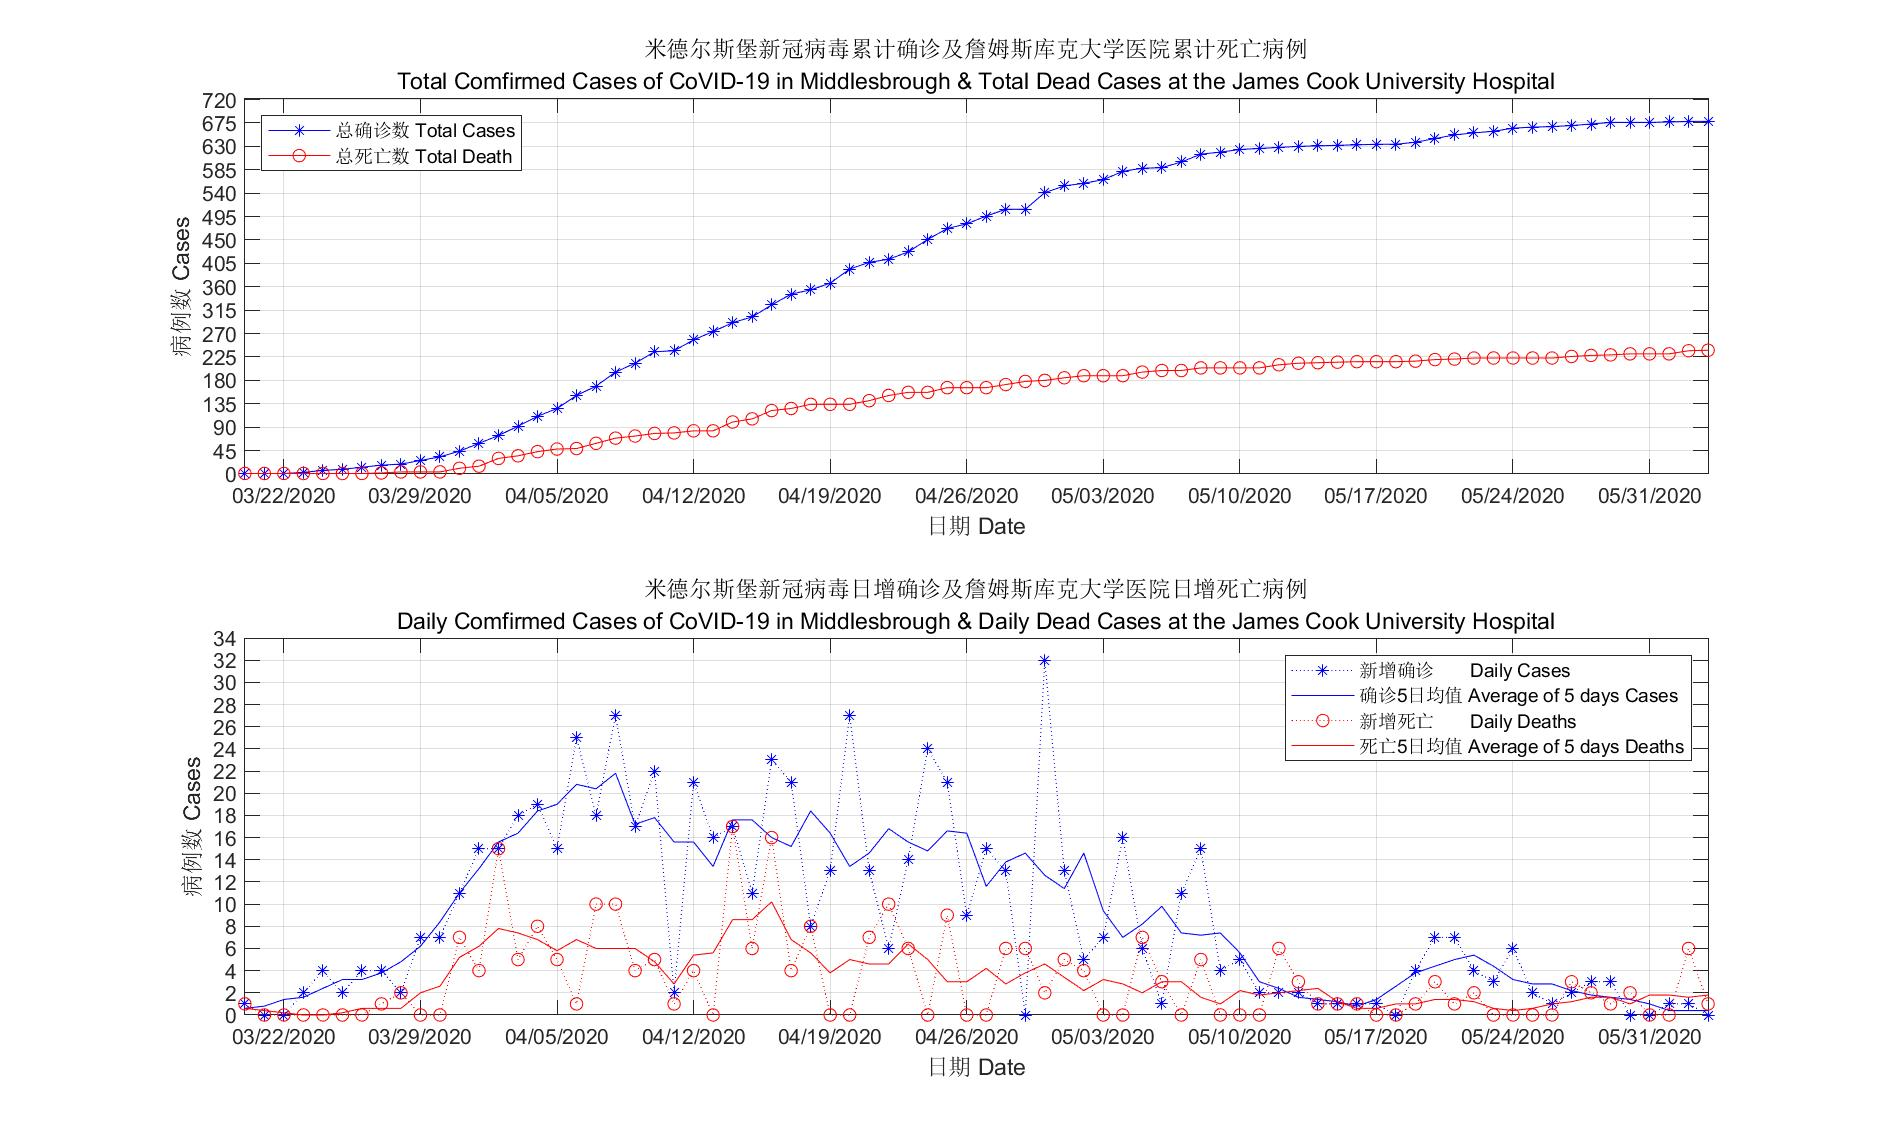
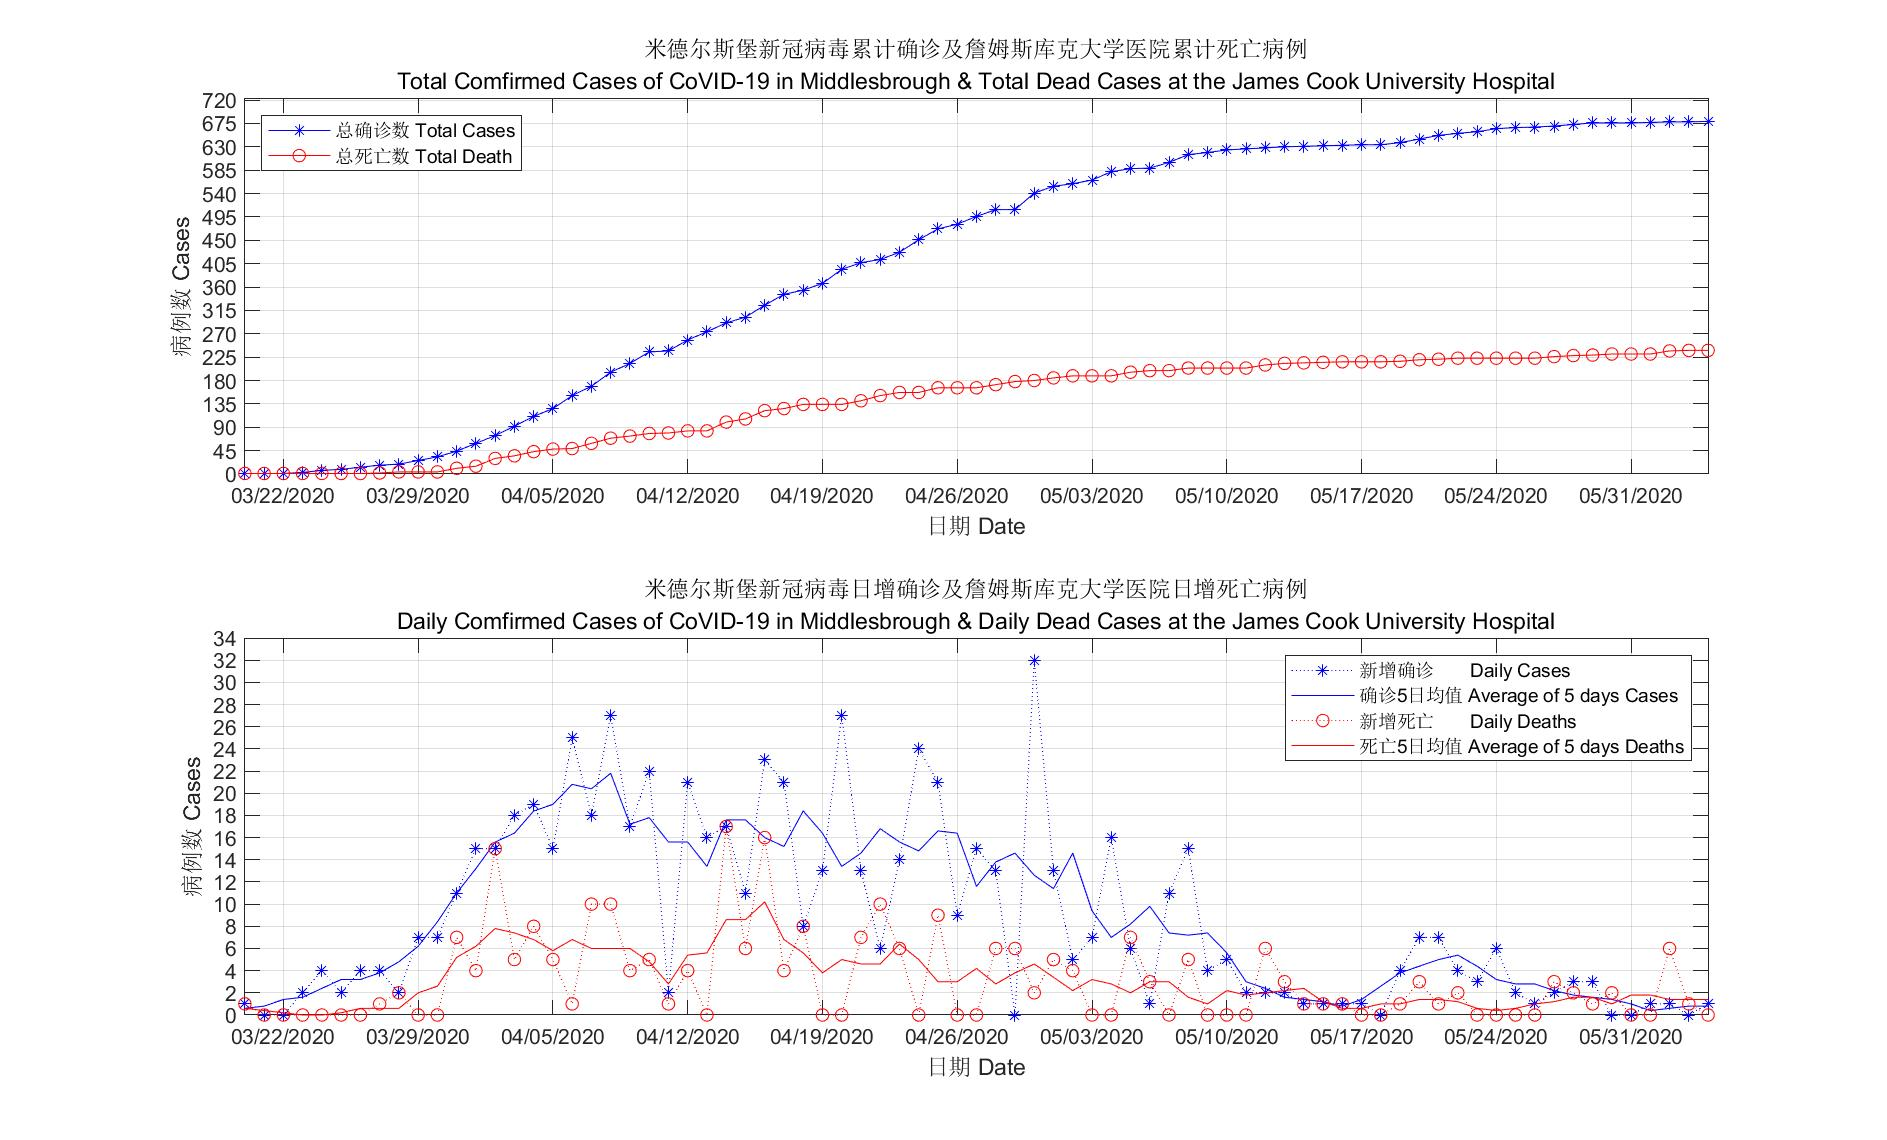
Update

diff --git a/covid19_TS1.m b/covid19_TS1.m
@@ -1,7 +1,7 @@
 %Figure of CoVid-19 Case in Middlesbrough
 %Coded by dxb 2020.4.1
 %Revised on 05-04-2020
-%Updated on 06-02-2020
+%Updated on 06-04-2020
 
 %Data source Need to update by day
 %cases data from the UK government
@@ -9,13 +9,13 @@ cases = [1 1 1 3 7 9 13 17 19 26 33 44 59 74 92 111 126 151 169 196 213 ...
     235 237 258 274 291 302 325 346 354 367 394 407 413 427 451 472 481 ...
     496 509 509 541 554 559 566 582 588 589 600 615 619 624 626 628 630 ...
     631 632 633 634 634 638 645 652 656 659 665 667 668 670 673 676 676 ...
-    676 677 678 678];
+    676 677 678 678 679];
 %deaths data from NHS
 dcases = [1 1 1 1 1 1 1 2 4 4 4 11 15 30 35 43 48 49 59 69 73 78 79 83 ...
     83 100 106 122 126 134 134 134 141 151 157 157 166 166 166 172 178 ...
     180 185 189 189 189 196 199 199 204 204 204 204 210 213 214 215 216 ...
     216 216 217 220 221 223 223 223 223 223 226 228 229 231 231 231 237 ...
-    238];
+    238 238];
 
 %Initial
 %Date config

diff --git a/Covid19_TS1.py b/Covid19_TS1.py
@@ -13,12 +13,12 @@ cases = [1, 1, 1, 3, 7, 9, 13, 17, 19, 26, 33, 44, 59, 74, 92, 111, 126, 151, 16
     235, 237, 258, 274, 291, 302, 325, 346, 354, 367, 394, 407, 413, 427, 451, 472, 481, 496,\
     509, 509, 541, 554, 559, 566, 582, 588, 589, 600, 615, 619, 624, 626, 628, 630, 631, 632,\
     633, 634, 634, 638, 645, 652, 656, 659, 665, 667, 668, 670, 673, 676, 676, 676, 677, 678,\
-    678]
+    678, 679]
 #deaths data from NHS
 dcases = [1, 1, 1, 1, 1, 1, 1, 2, 4, 4, 4, 11, 15, 30, 35, 43, 48, 49, 59, 69, 73, 78, 79, 83,\
     83, 100, 106, 122, 126, 134, 134, 134, 141, 151, 157, 157, 166, 166, 166, 172, 178, 180,\
     185, 189, 189, 189, 196, 199, 199, 204, 204, 204, 204, 210, 213, 214, 215, 216, 216, 216,\
-    217, 220, 221, 223, 223, 223, 223, 223, 226, 228, 229, 231, 231, 231, 237, 238]
+    217, 220, 221, 223, 223, 223, 223, 223, 226, 228, 229, 231, 231, 231, 237, 238, 238]
 
 #Initial
 #Date config
